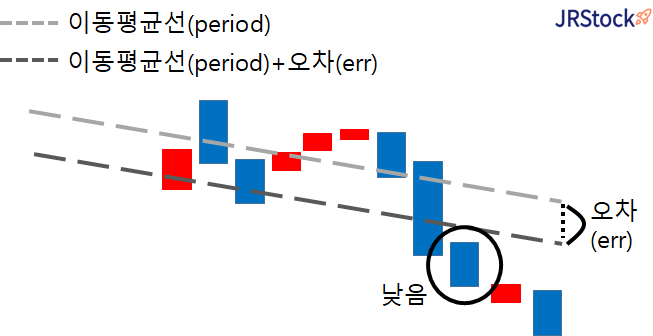
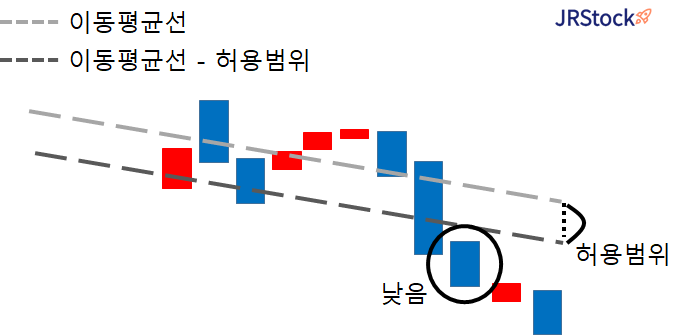
#S06P21S001-380 fix: 백테스트 생성 관련 tooltip content 이미지 및 내용 수정
Former-commit-id: 36fecefeb0b2140ea259cba10effb618469699b3

diff --git a/front_end/src/components/BackTestCreate/tooltipData.js b/front_end/src/components/BackTestCreate/tooltipData.js
@@ -78,16 +78,14 @@ const contentDict = {
     info: "이동평균선은 일정기간 동안의 주가를 산술 평균한 값이다. 주식에서는 주로 장기(120일), 중기(60일), 단기(5, 20일)의 이동평균선이 있다. 종가 기준으로 날짜를 합산하여 평균값을 구한다./n시가가 이동평균선 밑이고, 종가가 이동평균선+오차 위이면 상향돌파로 판단한다.",
     params: {
       1: "이동평균선 기간",
-      2: "이동평균선 허용 오차 범위",
-      0: "가중치",
+      2: "이동평균선 오차 허용 범위",
     },
   },
   102: {
     info: "이동평균선은 일정기간 동안의 주가를 산술 평균한 값이다. 주식에서는 주로 장기(120일), 중기(60일), 단기(5, 20일)의 이동평균선이 있다. 종가 기준으로 날짜를 합산하여 평균값을 구한다./n시가가 이동평균선 위이고, 종가가 이동평균선-오차 아래이면 하향돌파로 판단한다.",
     params: {
       1: "이동평균선 기간",
-      2: "이동평균선 허용 오차 범위",
-      0: "가중치",
+      2: "이동평균선 오차 허용 범위",
     },
   },
   103: {
@@ -95,7 +93,6 @@ const contentDict = {
     params: {
       3: "단기 이동평균선 기간",
       4: "장기 이동평균선 기간",
-      0: "가중치",
     },
   },
   104: {
@@ -103,7 +100,6 @@ const contentDict = {
     params: {
       3: "단기 이동평균선 기간",
       4: "장기 이동평균선 기간",
-      0: "가중치",
     },
   },
   105: {
@@ -111,7 +107,6 @@ const contentDict = {
     params: {
       3: "단기 이동평균선 기간",
       4: "장기 이동평균선 기간",
-      0: "가중치",
     },
   },
   106: {
@@ -119,135 +114,118 @@ const contentDict = {
     params: {
       3: "단기 이동평균선 기간",
       4: "장기 이동평균선 기간",
-      0: "가중치",
     },
   },
   203: {
-    info: "이동평균수렴확산지수(MACD)는 기간이 다른 이동평균선 사이의 관계에서 추세변화의 신호를 찾으려는 진동자 지표이다. Signal은 MACD의 지수 이동 평균이다./nMACD가 Signal을 상향돌파하면 골든크로스로 판단한다.",
+    info: "이동평균수렴확산지수(MACD)는 기간이 다른 이동평균선 사이의 관계에서 추세변화의 신호를 찾으려는 진동자 지표이다. 신호선은 MACD의 지수 이동 평균이다./nMACD가 신호선을 상향돌파하면 골든크로스로 판단한다.",
     params: {
       3: "단기 이동평균선 기간",
       4: "장기 이동평균선 기간",
-      5: "signal 기간",
-      0: "가중치",
+      5: "신호선 기간",
     },
   },
   204: {
-    info: "이동평균수렴확산지수(MACD)는 기간이 다른 이동평균선 사이의 관계에서 추세변화의 신호를 찾으려는 진동자 지표이다. Signal은 MACD의 지수 이동 평균이다./nMACD가 Signal을 하향돌파하면 데드크로스로 판단한다.",
+    info: "이동평균수렴확산지수(MACD)는 기간이 다른 이동평균선 사이의 관계에서 추세변화의 신호를 찾으려는 진동자 지표이다. 신호선은 MACD의 지수 이동 평균이다./nMACD가 신호선을 하향돌파하면 데드크로스로 판단한다.",
     params: {
       3: "단기 이동평균선 기간",
       4: "장기 이동평균선 기간",
-      5: "signal 기간",
-      0: "가중치",
+      5: "신호선 기간",
     },
   },
   205: {
-    info: "이동평균수렴확산지수(MACD)는 기간이 다른 이동평균선 사이의 관계에서 추세변화의 신호를 찾으려는 진동자 지표이다. Signal은 MACD의 지수 이동 평균이다./nMACD가 Signal보다 위에 있다면 정배열로 판단한다.",
+    info: "이동평균수렴확산지수(MACD)는 기간이 다른 이동평균선 사이의 관계에서 추세변화의 신호를 찾으려는 진동자 지표이다. 신호선은 MACD의 지수 이동 평균이다./nMACD가 신호선보다 위에 있다면 정배열로 판단한다.",
     params: {
       3: "단기 이동평균선 기간",
       4: "장기 이동평균선 기간",
-      5: "signal 기간",
-      0: "가중치",
+      5: "신호선 기간",
     },
   },
   206: {
-    info: "이동평균수렴확산지수(MACD)는 기간이 다른 이동평균선 사이의 관계에서 추세변화의 신호를 찾으려는 진동자 지표이다. Signal은 MACD의 지수 이동 평균이다./nMACD가 Signal보다 아래에 있다면 역배열로 판단한다.",
+    info: "이동평균수렴확산지수(MACD)는 기간이 다른 이동평균선 사이의 관계에서 추세변화의 신호를 찾으려는 진동자 지표이다. 신호선은 MACD의 지수 이동 평균이다./nMACD가 신호선보다 아래에 있다면 역배열로 판단한다.",
     params: {
       3: "단기 이동평균선 기간",
       4: "장기 이동평균선 기간",
-      5: "signal 기간",
-      0: "가중치",
+      5: "신호선 기간",
     },
   },
   307: {
-    info: "상대적강도지수(RSI)는 미래 주가의 강세 및 약세를 전일 대비(혹은 전주비)의 주가 변화의 비율로 예측하려고 하는 지표이다. RSI는 과거 일정 기간의 가격 상승폭의 합계(분자)에 대한 같은 기간 내의 가격 상승폭과 가격 하락폭의 절대치 합계(분모)의 백분비로 구해진다. 경험적으로 80%이상은 천정으로 매도 영역, 25% 이하는 바닥권으로 매입 영역을 나타낸다./nRSI가 Index보다 위에 있다면 자산가지 고평가로 판단한다.",
+    info: "상대적강도지수(RSI)는 미래 주가의 강세 및 약세를 전일 대비(혹은 전주비)의 주가 변화의 비율로 예측하려고 하는 지표이다. RSI는 과거 일정 기간의 가격 상승폭의 합계(분자)에 대한 같은 기간 내의 가격 상승폭과 가격 하락폭의 절대치 합계(분모)의 백분비로 구해진다. 경험적으로 80%이상은 천정으로 매도 영역, 25% 이하는 바닥권으로 매입 영역을 나타낸다./nRSI가 임계치보다 위에 있다면 자산가지 고평가로 판단한다.",
     params: {
       1: "RSI 기간",
       6: "고평가 판단 기준",
-      0: "가중치",
     },
   },
   308: {
-    info: "상대적강도지수(RSI)는 미래 주가의 강세 및 약세를 전일 대비(혹은 전주비)의 주가 변화의 비율로 예측하려고 하는 지표이다. RSI는 과거 일정 기간의 가격 상승폭의 합계(분자)에 대한 같은 기간 내의 가격 상승폭과 가격 하락폭의 절대치 합계(분모)의 백분비로 구해진다. 경험적으로 80%이상은 천정으로 매도 영역, 25% 이하는 바닥권으로 매입 영역을 나타낸다./nRSI가 Index보다 아래에 있다면 자산가지 저평가로 판단한다.",
+    info: "상대적강도지수(RSI)는 미래 주가의 강세 및 약세를 전일 대비(혹은 전주비)의 주가 변화의 비율로 예측하려고 하는 지표이다. RSI는 과거 일정 기간의 가격 상승폭의 합계(분자)에 대한 같은 기간 내의 가격 상승폭과 가격 하락폭의 절대치 합계(분모)의 백분비로 구해진다. 경험적으로 80%이상은 천정으로 매도 영역, 25% 이하는 바닥권으로 매입 영역을 나타낸다./nRSI가 임계치보다 아래에 있다면 자산가지 저평가로 판단한다.",
     params: {
       1: "RSI 기간",
       6: "저평가 판단 기준",
-      0: "가중치",
     },
   },
   407: {
-    info: "OBV는 상승한 날의 거래량과 하락한 날의 거래량을 누계적으로 집계, 도표화한 것이다. 거래량은 항상 주가에 선행한다는 것을 전제로 거래량 분석을 통해 주가를 분석하는 기법으로 조셉 그렌빌(Joseph Granville)이 개발한 기법이다. OBV_EMA 는 OBV의 이동평균 선이다./nOBV가 OBV_EMA위로 오는 경우 정배열로 판단한다.",
+    info: "OBV는 상승한 날의 거래량과 하락한 날의 거래량을 누계적으로 집계, 도표화한 것이다. 거래량은 항상 주가에 선행한다는 것을 전제로 거래량 분석을 통해 주가를 분석하는 기법으로 조셉 그렌빌(Joseph Granville)이 개발한 기법이다. OBV_EMA 는 OBV의 지수이동평균 선이다./nOBV가 OBV_EMA위로 오는 경우 높음으로 판단한다.",
     params: {
       1: "OBV, OBV_EMA 기간",
-      0: "가중치",
     },
   },
   408: {
-    info: "OBV는 상승한 날의 거래량과 하락한 날의 거래량을 누계적으로 집계, 도표화한 것이다. 거래량은 항상 주가에 선행한다는 것을 전제로 거래량 분석을 통해 주가를 분석하는 기법으로 조셉 그렌빌(Joseph Granville)이 개발한 기법이다. OBV_EMA 는 OBV의 이동평균 선이다./nOBV가 OBV_EMA위로 오는 경우 역배열로 판단한다.",
+    info: "OBV는 상승한 날의 거래량과 하락한 날의 거래량을 누계적으로 집계, 도표화한 것이다. 거래량은 항상 주가에 선행한다는 것을 전제로 거래량 분석을 통해 주가를 분석하는 기법으로 조셉 그렌빌(Joseph Granville)이 개발한 기법이다. OBV_EMA 는 OBV의 지수이동평균 선이다./nOBV가 OBV_EMA위로 오는 경우 낮음으로 판단한다.",
     params: {
       1: "OBV, OBV_EMA 기간",
-      0: "가중치",
     },
   },
   507: {
-    info: "MFI는 거래량 가중 상대적 강도 지수라고도 하며, 자산 중에서 과매수 또는 과매도 신호를 식별하기 위해 가격 및 거래량 데이터를 이용해 계산한다. MFI 값이 80이상이면 과매수(매도 타이밍)로 간주되고, 20 미만이면 과매도(매수 타이밍)로 간주된다. 또한 MFI 값이 90 또는 10인 경우를 임계값 이라고 한다./nMFI가 Index보다 위에 있다면 과매수로 판단한다.",
+    info: "MFI는 거래량 가중 상대적 강도 지수라고도 하며, 자산 중에서 과매수 또는 과매도 신호를 식별하기 위해 가격 및 거래량 데이터를 이용해 계산한다. MFI 값이 80이상이면 과매수(매도 타이밍)로 간주되고, 20 미만이면 과매도(매수 타이밍)로 간주된다. 또한 MFI 값이 90 또는 10인 경우를 임계값 이라고 한다./nMFI가 임계치보다 위에 있다면 과매수로 판단한다.",
     params: {
       1: "MFI 기간",
       6: "과매수 판단 기준",
-      0: "가중치",
     },
   },
   508: {
-    info: "MFI는 거래량 가중 상대적 강도 지수라고도 하며, 자산 중에서 과매수 또는 과매도 신호를 식별하기 위해 가격 및 거래량 데이터를 이용해 계산한다. MFI 값이 80이상이면 과매수(매도 타이밍)로 간주되고, 20 미만이면 과매도(매수 타이밍)로 간주된다. 또한 MFI 값이 90 또는 10인 경우를 임계값 이라고 한다./nMFI가 Index보다 아래에 있다면 과매도로 판단한다.",
+    info: "MFI는 거래량 가중 상대적 강도 지수라고도 하며, 자산 중에서 과매수 또는 과매도 신호를 식별하기 위해 가격 및 거래량 데이터를 이용해 계산한다. MFI 값이 80이상이면 과매수(매도 타이밍)로 간주되고, 20 미만이면 과매도(매수 타이밍)로 간주된다. 또한 MFI 값이 90 또는 10인 경우를 임계값 이라고 한다./nMFI가 임계치보다 아래에 있다면 과매도로 판단한다.",
     params: {
       1: "MFI 기간",
       6: "과매도 기준",
-      0: "가중치",
     },
   },
   605: {
     info: "일목균형표란 일본에서 개발된 지표로 주가의 움직임을 5개의 의미 있는 선을 이용하여 주가를 예측하는 기법으로 시간 개념이 포함된 지표를 말한다./n전환선: 최근 9일간의 최고가와 최저가의 합을 2로 나눈 값을 연결한 선이다.\n기준선: 최근 26일간의 최저가와 최고가의 합을 2로 나눈 값을 연결하여 만든 선이다.\n선행스팬 제 1선: 전환선과 기준선의 평균값을 내어 26일 앞으로 보낸 것이다.\n선행스팬 제 2선: 52일간 최고가와 최저가를 더한 후 12로 나눈 평균값을 26일 앞으로 보낸 것이다.\n후행스팬: 현재 종목의 주가를 반대로 25일 전으로 보낸 것이다.\n구름대: 1선에서 2선을 뺀 값으로 양수면 양구름층, 음수면 음구름층 이다./ncount에 설정한 조건을 만족하면 정배열로 판단한다.",
     params: {
       7: "1: 양운, 2: 전환선>기준선, 3: 주가>전환선>기준선, 4: 후행스팬>주가>전환선>기준선, 5: 후행스팬>주가>전환선>기준선>구름대(양운)",
-      0: "가중치",
     },
   },
   606: {
     info: "일목균형표란 일본에서 개발된 지표로 주가의 움직임을 5개의 의미 있는 선을 이용하여 주가를 예측하는 기법으로 시간 개념이 포함된 지표를 말한다./n전환선: 최근 9일간의 최고가와 최저가의 합을 2로 나눈 값을 연결한 선이다.\n기준선: 최근 26일간의 최저가와 최고가의 합을 2로 나눈 값을 연결하여 만든 선이다.\n선행스팬 제 1선: 전환선과 기준선의 평균값을 내어 26일 앞으로 보낸 것이다.\n선행스팬 제 2선: 52일간 최고가와 최저가를 더한 후 12로 나눈 평균값을 26일 앞으로 보낸 것이다.\n후행스팬: 현재 종목의 주가를 반대로 25일 전으로 보낸 것이다.\n구름대: 1선에서 2선을 뺀 값으로 양수면 양구름층, 음수면 음구름층 이다./ncount에 설정한 조건을 만족하면 역배열로 판단한다.",
     params: {
       7: "1: 음운, 2: 전환선<기준선, 3: 주가<전환선<기준선, 4: 후행스팬<주가<전환선<기준선, 5: 후행스팬<주가<전환선<기준선<구름대(음운)",
-      0: "가중치",
     },
   },
   707: {
     info: "코스피지수는 증권거래소에 상장된 주식의 증권시장지표 중에서 주식의 전반적인 동향을 가장 잘 나타내는 대표적인 지수이다. 시장전체의 주가 움직임을 측정하는 지표로 이용되며, 투자성과 측정, 다른 금융상품과의 수익률 비교척도, 경제상황 예측지표로도 이용된다./n코스피지수가 이동평균선+오차 위이면 높음으로 판단한다.",
     params: {
       1: "코스피지수 이동평균선 기간",
-      2: "코스피지수 이동평균선 허용 오차 범위",
-      0: "가중치",
+      2: "코스피지수 이동평균선 오차 허용 범위",
     },
   },
   708: {
     info: "코스피지수는 증권거래소에 상장된 주식의 증권시장지표 중에서 주식의 전반적인 동향을 가장 잘 나타내는 대표적인 지수이다. 시장전체의 주가 움직임을 측정하는 지표로 이용되며, 투자성과 측정, 다른 금융상품과의 수익률 비교척도, 경제상황 예측지표로도 이용된다./n코스피지수가 이동평균선-오차 아래이면 낮음으로 판단한다.",
     params: {
       1: "코스피지수 이동평균선 기간",
-      2: "코스피지수 이동평균선 허용 오차 범위",
-      0: "가중치",
+      2: "코스피지수 이동평균선 오차 허용 범위",
     },
   },
   807: {
     info: "코스닥지수는 코스닥시장 전체의 주가동향을 파악할 수 있는 투자분석지표이다./n코스닥지수가 이동평균선+오차 위이면 높음으로 판단한다.",
     params: {
       1: "코스닥지수 이동평균선 기간",
-      2: "코스닥지수 이동평균선 허용 오차 범위",
-      0: "가중치",
+      2: "코스닥지수 이동평균선 오차 허용 범위",
     },
   },
   808: {
     info: "코스닥지수는 코스닥시장 전체의 주가동향을 파악할 수 있는 투자분석지표이다./n코스닥지수가 이동평균선-오차 아래이면 낮음으로 판단한다.",
     params: {
       1: "코스닥지수 이동평균선 기간",
-      2: "코스닥지수 이동평균선 허용 오차 범위",
-      0: "가중치",
+      2: "코스닥지수 이동평균선 오차 허용 범위",
     },
   },
 };

diff --git a/front_end/src/components/commons/ToolContent2.jsx b/front_end/src/components/commons/ToolContent2.jsx
@@ -11,7 +11,7 @@ export default function ToolContent2({ sId }) {
     return str.split("/n").map((content, idx) => {
       return (
         <p
-          className=" text-base leading-normal text-gray-600 my-2 text-ellipsis overflow-hidden whitespace-pre-wrap"
+          className=" text-base leading-normal text-left text-gray-600 my-2 text-ellipsis overflow-hidden whitespace-pre-wrap"
           key={idx}
         >
           {content}
@@ -23,7 +23,6 @@ export default function ToolContent2({ sId }) {
   const paramsList = (params) => {
     const list = [];
     for (const key in params) {
-      if (key === "0") continue;
       list.push(
         <li key={key}>
           <span className="font-bold">{`${paramDict[key]} `}</span>
@@ -34,7 +33,7 @@ export default function ToolContent2({ sId }) {
     list.push(
       <li key={0}>
         <span className="font-bold">{"점수 "}</span>
-        <span>{`${params[0]}`}</span>
+        <span>{`해당 전략 할당 점수`}</span>
       </li>
     );
 
@@ -61,7 +60,11 @@ export default function ToolContent2({ sId }) {
             alt={altDict[sId]}
           />
           {paragraphList(contentDict[sId].info)}
-          {<ul>{paramsList(contentDict[sId].params)}</ul>}
+          {
+            <ul className="text-left font-normal">
+              {paramsList(contentDict[sId].params)}
+            </ul>
+          }
         </div>
         <button
           className="float-right bg-primary text-white rounded-lg px-2 py-2 hover:bg-active duration-300"

diff --git a/front_end/src/components/MyPage/MyStock.jsx b/front_end/src/components/MyPage/MyStock.jsx
@@ -296,8 +296,8 @@ export default function StockItemList() {
   };
 
   // 관심 종목 삭제
-  const handleDeleteButton = () => {
-    const status = deleteBookMark();
+  const handleDeleteButton = async () => {
+    const status = await deleteBookMark();
     if (status) {
       init();
       toast.success("관심종목 삭제에 성공하였습니다.");
